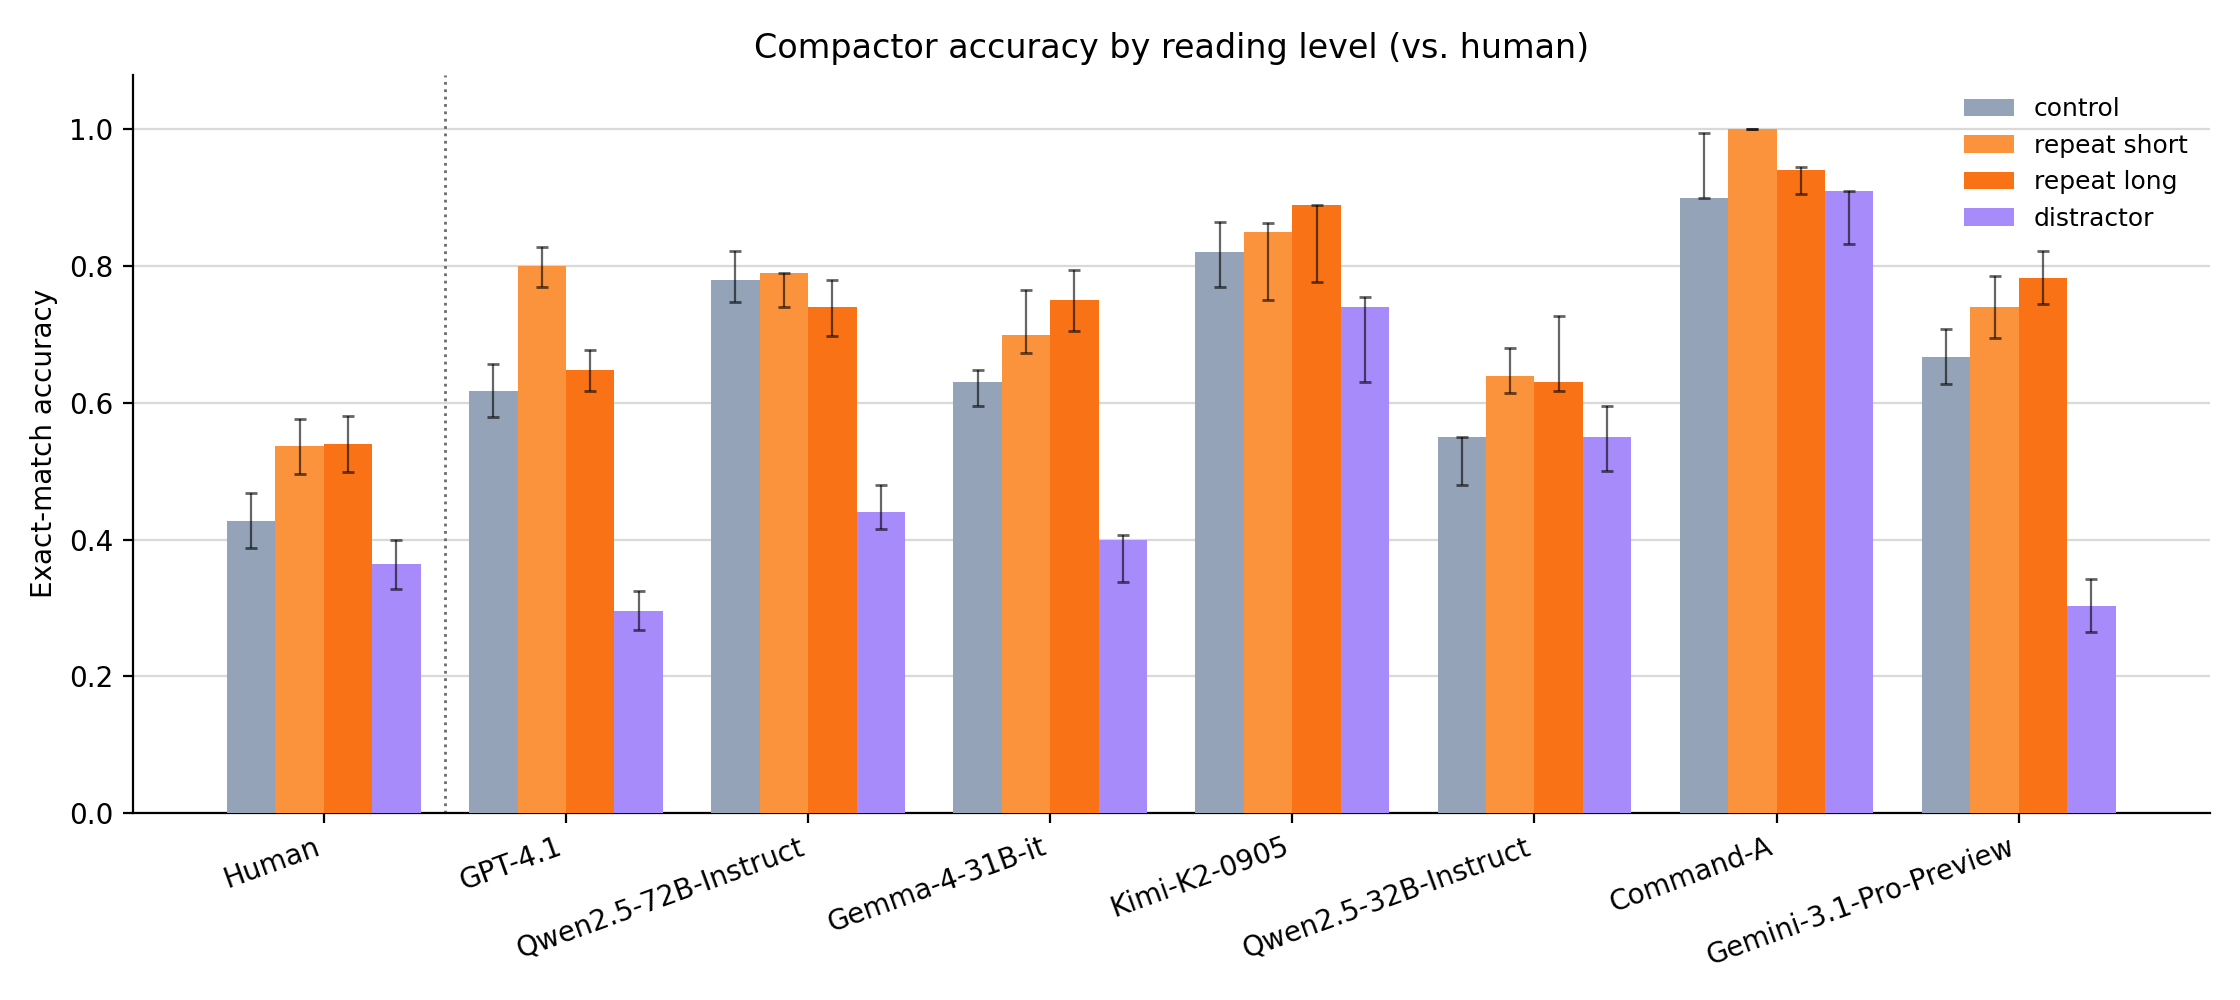
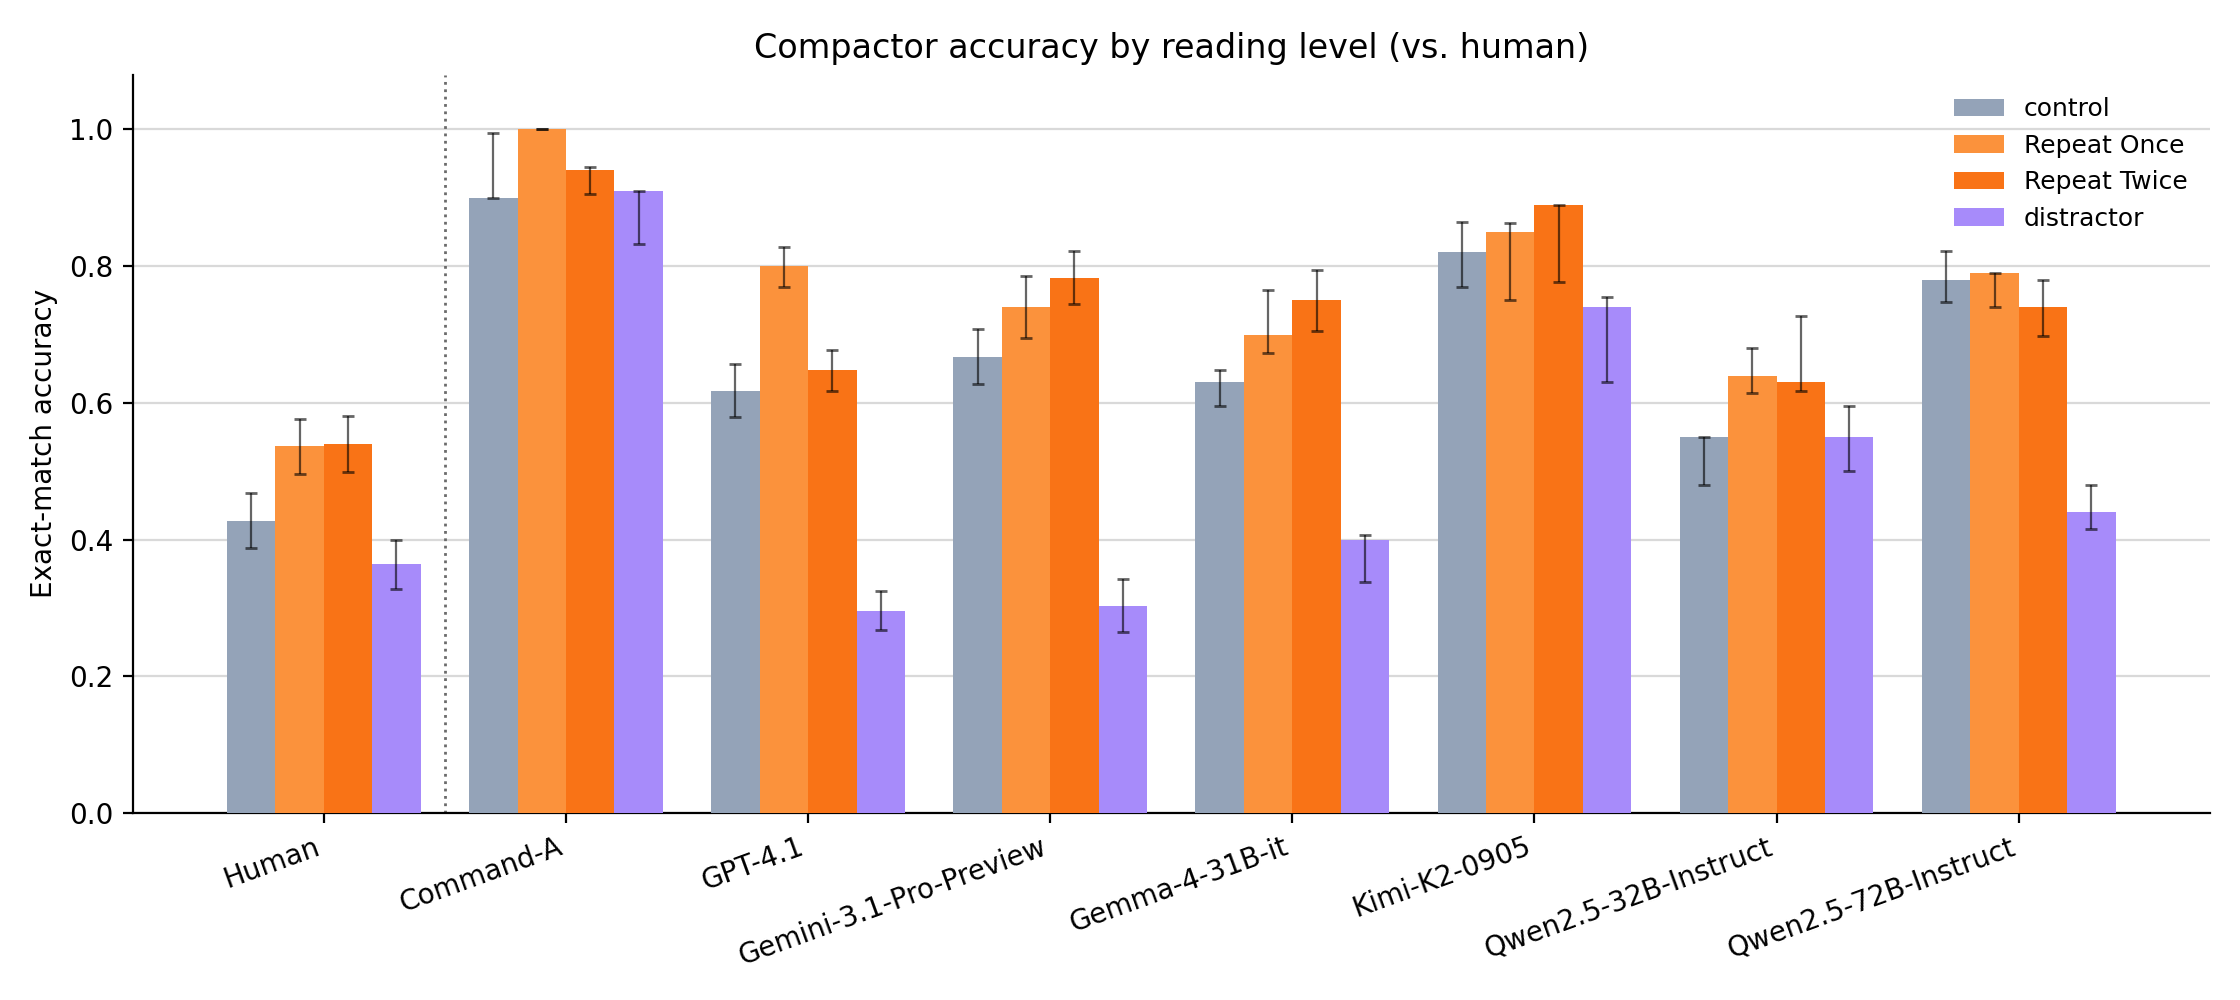
fig: readable level labels + sorted models in compactor-by-level bar
Legend now reads "Repeat Once"/"Repeat Twice" instead of the raw
repeat_short/repeat_long keys, and models are sorted alphabetically so the
bar order stays stable as runs are added. Figure regenerated.

diff --git a/application/plot_open_source_compactor_vs_ceiling.py b/application/plot_open_source_compactor_vs_ceiling.py
@@ -75,6 +75,12 @@ COMPACTOR_RUNS: list[tuple[str, str]] = [
 ]
 
 LEVEL_ORDER = ("control", "repeat_short", "repeat_long", "distractor")
+LEVEL_LABELS = {
+    "control": "control",
+    "repeat_short": "Repeat Once",
+    "repeat_long": "Repeat Twice",
+    "distractor": "distractor",
+}
 
 
 N_BOOT = 2000
@@ -215,7 +221,7 @@ def plot_ceiling_vs_compactor(out_path: Path) -> None:
 
 
 def plot_compactor_by_level(out_path: Path) -> None:
-    models = ["Human"] + [name for name, _ in COMPACTOR_RUNS]
+    models = ["Human"] + sorted(name for name, _ in COMPACTOR_RUNS)
     by_level = {name: compactor_accuracy_by_level(run_dir) for name, run_dir in COMPACTOR_RUNS}
     by_level["Human"] = human_accuracy_by_level()
     raw_by_level = {name: compactor_raw_by_level(run_dir) for name, run_dir in COMPACTOR_RUNS}
@@ -235,7 +241,7 @@ def plot_compactor_by_level(out_path: Path) -> None:
         his = [max(0.0, c[1] - v) for v, c in zip(vals, cis)]
         offsets = [i + (j - (n_levels - 1) / 2) * width for i in range(n_models)]
         ax.bar(
-            offsets, vals, width, color=LEVEL_COLORS[level], label=level.replace("_", " "),
+            offsets, vals, width, color=LEVEL_COLORS[level], label=LEVEL_LABELS[level],
             yerr=[los, his], capsize=2, error_kw={"elinewidth": 0.8, "alpha": 0.6},
             zorder=3,
         )
